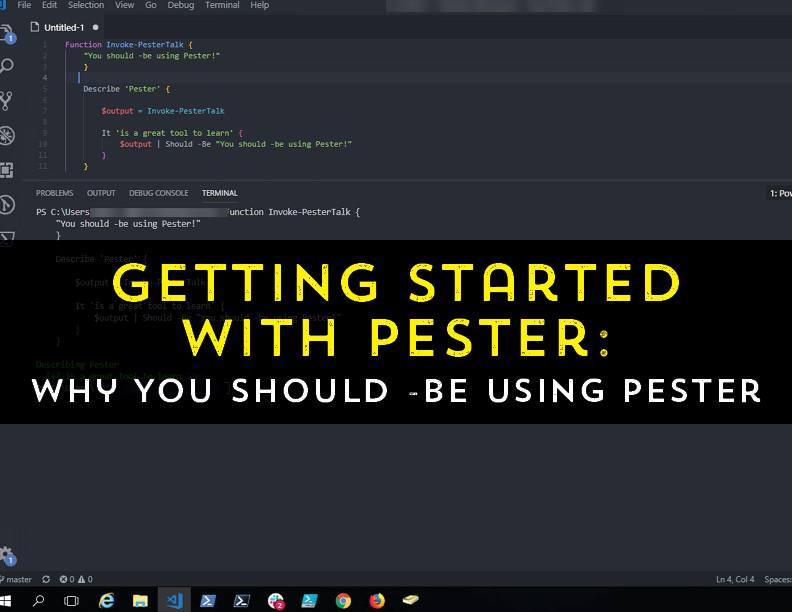
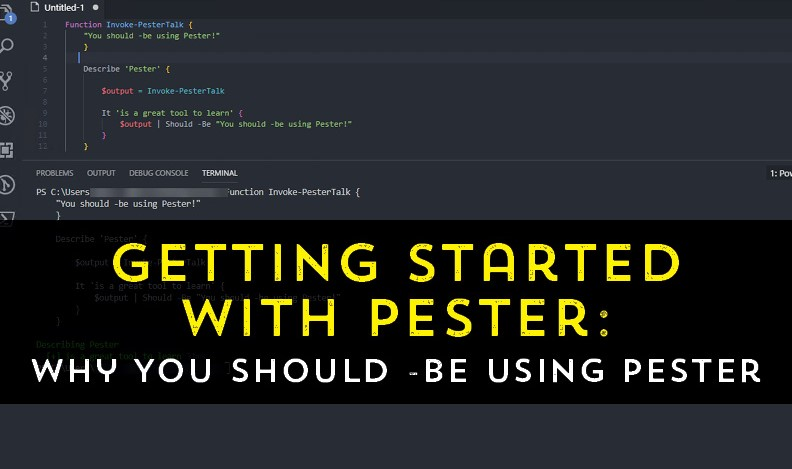
Edit post date to the past & update graphic size (792x445)

diff --git a/_includes/themes/bootstrap/default.html b/_includes/themes/bootstrap/default.html
@@ -14,8 +14,6 @@ lantoniotrento@gmail.com
     {% if page.keywords %}<meta name="keywords" content="{{ page.keywords }}">{% endif %}
     {% if page.canonical %}<link rel="canonical" href="{{ page.canonical }}"/>{% endif %}
     <meta name="viewport" content="width=device-width, initial-scale=1.0">
-    
-
     <!--Google Font link-->
         <link href="https://fonts.googleapis.com/css?family=Ubuntu:300,300i,400,400i,500,500i,700,700i" rel="stylesheet">
  <!--Helium css-->
@@ -31,13 +29,11 @@ lantoniotrento@gmail.com
 
 	<!-- CSS loaded by the children page -->
         {% if page.css %}<link rel="stylesheet" type="text/css" href="{{ BASE_PATH }}/assets/css/custom/{{ page.css }}" />{% endif %}
-
     <meta property="og:title" content="{{ page.title }}">
     <meta property="og:description" content="{{ page.tagline }}">
     <meta property="og:image" content="{{ BASE_PATH }}/assets/img/big/{{ page.img }}">
     <meta property="og:url" content="{{ BASE_PATH }}">
     <meta name="twitter:card" content="summary_large_image">
-
 	<!--[if IE]>
 		<script type="text/javascript">
 			 var console = { log: function() {} };
@@ -68,15 +64,10 @@ lantoniotrento@gmail.com
   {% if site.JB.comments.disqus.short_name == true %}
   <script id="dsq-count-scr" src="//{{ site.JB.comments.disqus.short_name }}.disqus.com/count.js" async></script>
   {% endif %}
-
-
-
-
         <!-- JS includes -->
-
         <script src="{{ BASE_PATH }}/assets/js/jquery.min.js"></script>
         <script src="{{ BASE_PATH }}/assets/js/jquery.nav.js"></script>
-	<script src="{{ BASE_PATH }}/assets/js/owl.carousel.min.js"></script>
+      	<script src="{{ BASE_PATH }}/assets/js/owl.carousel.min.js"></script>
         <script src="{{ BASE_PATH }}/assets/js/form-validator.min.js"></script>	  
         <script src="{{ BASE_PATH }}/assets/js/contact-form-script.js"></script>
         <script src="{{ BASE_PATH }}/assets/js/jasny-bootstrap.min.js"></script>
@@ -87,12 +78,8 @@ lantoniotrento@gmail.com
         <script src="{{ BASE_PATH }}/assets/js/scrolling-nav.js"></script>
         <script src="{{ BASE_PATH }}/assets/js/tether.min.js"></script>
         <script src="{{ BASE_PATH }}/assets/js/bootstrap.min.js"></script>
-
 	<!-- ********************* Grads SCRIPTING ******************************-->
 	<!--Custom script loaded by children page-->
 	{% if page.js %}<script src="{{ BASE_PATH }}/assets/js/{{ page.js }}"></script>{% endif %}
-
-
-	  
   </body>
 </html>

diff --git a/_includes/themes/bootstrap/footer.html b/_includes/themes/bootstrap/footer.html
@@ -13,7 +13,6 @@
                   {% if site.author.youtube %}<a href="https://youtube.com/c/{{ site.author.youtube }}"><i class="fa fa-2x fa-youtube"></i></a>{% endif %}
                   {% if site.author.linkedin %}<a href="https://www.linkedin.com/in/{{ site.author.linkedin }}/"><i class="fa fa-2x fa-linkedin"></i></a>{% endif %}
                   {% if site.author.instagram %}<a href="https://www.instagram.com/{{ site.author.instagram }}/"><i class="fa fa-2x fa-instagram"></i></a>{% endif %}                            
-              	
           </span>
         </div>
       </footer>

diff --git a/blog.html b/blog.html
@@ -15,7 +15,7 @@ canonical: https://rtpsug.com/blog
 {% for post in site.posts %}
 	  <div class="blog-block post-content-area">
 	   {% if post.img %}	  
-            <img src="{{ BASE_PATH }}/assets/images/{{ post.img }}" alt="{{ post.title }} image">
+            <a href="{{ BASE_PATH }}{{ post.url }}"><img src="{{ BASE_PATH }}/assets/images/{{ post.img }}" alt="{{ post.title }} image"></a>
 	   {% endif %}	  
             <div class="blog-post">
               <h3><a href="{{ BASE_PATH }}{{ post.url }}">{{ post.title }}</a></h3>

diff --git a/_includes/themes/bootstrap/blog.html b/_includes/themes/bootstrap/blog.html
@@ -4,14 +4,9 @@
     <div class="container">
       <div class="row">
         <div class="col-sm-12 col-md-9">
-
            {{ content }}     
-
             {% include JB/comments %}
-          
-
         </div>
-
         <div class="col-sm-12 col-md-3">
           {% include side-bar.html %}
         </div>          

diff --git a/_includes/themes/bootstrap/post.html b/_includes/themes/bootstrap/post.html
@@ -20,13 +20,8 @@
           </div>
         </div>
       </div>
-
-
-
 <!-- Post content+sidebar -->
-
 <div class="mb-60"></div>
-
   <!-- Blog content + sidebar -->
   <section id="post" class="blog">
     <div class="container">
@@ -46,4 +41,3 @@
       </div>
      </div>
    </section>
-

diff --git a/_posts/meetups/2019-04-16-April-17th-Meetup.md b/_posts/meetups/2019-04-16-April-17th-Meetup.md
@@ -1,7 +1,7 @@
 ---
 layout: post
 category : meetups
-tagline: "Pester: Why You Should -Be Using Pester"
+tagline: "Pester: - Why You Should -Be Using Pester"
 tags : [bootstrap 4, web desing, jekyll]
 img : meetups/2019-04-17.jpg
 img-mobile : 
